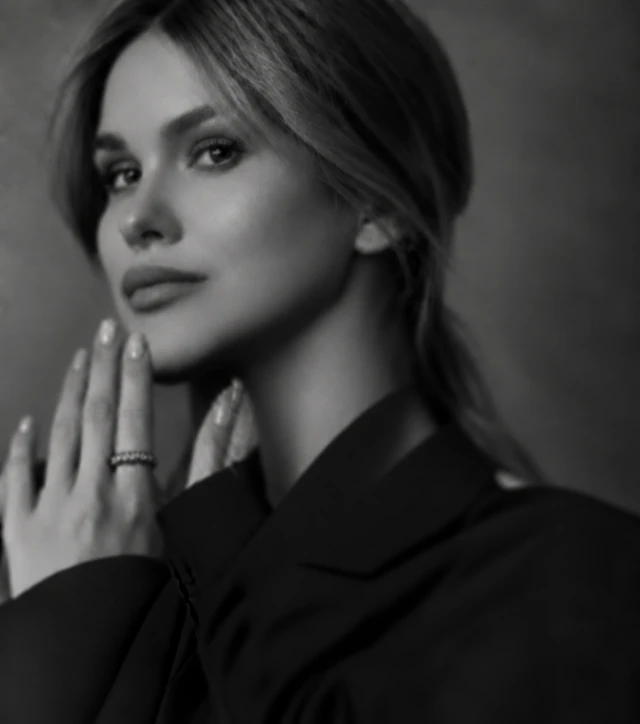
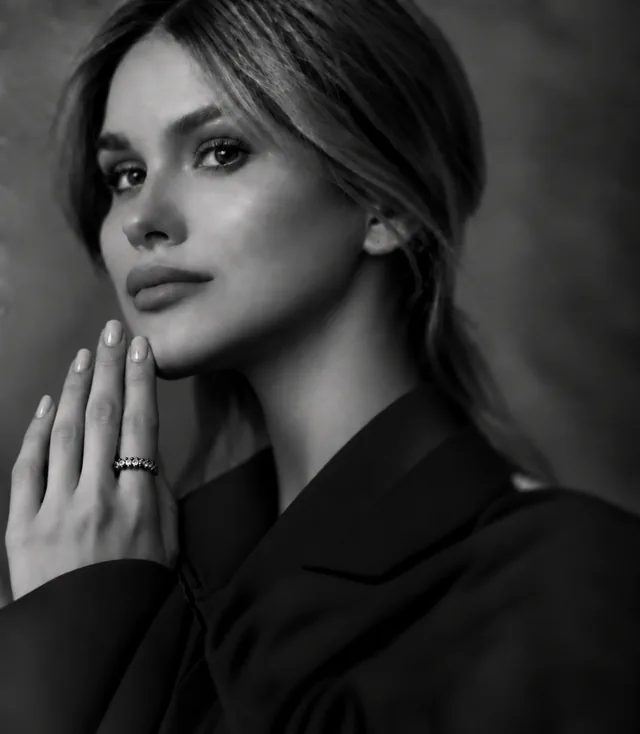
change the hero photo

diff --git a/src/consts.ts b/src/consts.ts
@@ -33,14 +33,14 @@ export const SECTION_LABELS = {
 } as const;
 
 export const HERO_IMAGE = {
-  src: `${process.env.PUBLIC_URL || ""}/hero.jpg`,
-  srcSet: [640, 960, 1179]
+  src: `${process.env.PUBLIC_URL || ""}/hero.png`,
+  srcSet: [640, 960, 1171]
     .map(
       (width) => `${process.env.PUBLIC_URL || ""}/hero-${width}.webp ${width}w`,
     )
     .join(", "),
-  width: 1179,
-  height: 1334,
+  width: 1171,
+  height: 1343,
   alt: "Катя - основатель Premier Agency",
 } as const;
 
